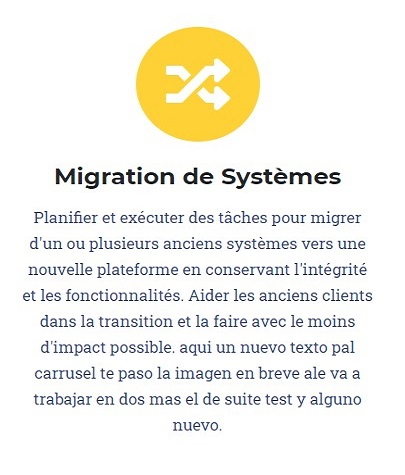
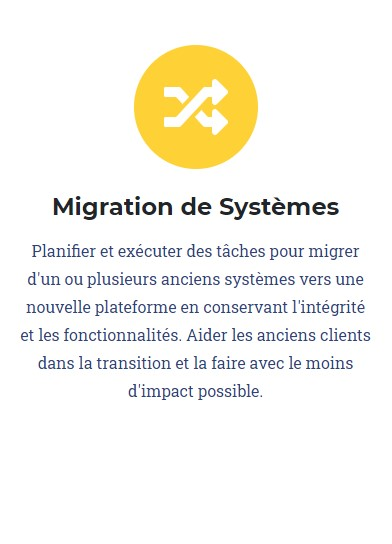
Actualiztion Trabajo con services

diff --git a/index.html b/index.html
@@ -86,8 +86,8 @@
         </section>
         
        
- <!-- 
-       <br>
+  
+             <!-- <br>
         <section class="page-section " id="services">
             <div class="container">
                 <div class="text-center">
@@ -153,18 +153,14 @@
                         </span>
                         <h4 class="my-3"> Migration de Systèmes
                         </h4>
-                        <p class="text-muted">Planifier et exécuter des tâches pour migrer d'un ou plusieurs anciens systèmes vers une nouvelle plateforme en conservant l'intégrité et les fonctionnalités. Aider les anciens clients dans la transition et la faire avec le moins d'impact possible.
-                            aqui un nuevo texto pal carrusel
-                            te paso la imagen en breve
-                            ale va a trabajar en dos mas
-                            el de suite test y alguno nuevo.</p>
+                        <p class="text-muted">Planifier et exécuter des tâches pour migrer d'un ou plusieurs anciens systèmes vers une nouvelle plateforme en conservant l'intégrité et les fonctionnalités. Aider les anciens clients dans la transition et la faire avec le moins d'impact possible.</p>
                     </div>
                    
                 </div>
             </div>
-        </section>
+        </section>-->
 
-        -->
+        
         <!-- Portfolio Grid-->
         <section class="page-section bg-light" id="portfolio">
             <div class="container">
@@ -434,7 +430,7 @@
         <footer class="footer py-4">
             <div class="container">
                 <div class="row align-items-center">
-                    <div class="col-lg-4 text-lg-left">Copyright © 2020 FaaS Dynamic Solutions</div>
+                    <div class="col-lg-4 text-lg-left">Copyright © 2020 FaaS solutions dynamiques Inc</div>
                     <div class="col-lg-4 my-3 my-lg-0">
                         <!-- <a class="btn btn-dark btn-social mx-2" href="#!"><i class="fab fa-twitter"></i></a>
                         <a class="btn btn-dark btn-social mx-2" href="#!"><i class="fab fa-facebook-f"></i></a>-->

diff --git a/css/styles.css b/css/styles.css
@@ -10000,7 +10000,7 @@ p {
 }
 
 .page-section {
-  padding: 10rem 0;
+  padding: 8rem 0;
 }
 .page-section h2.section-heading {
   font-size: 2.5rem;
@@ -10527,7 +10527,7 @@ section#contact form#sentMessage :-ms-input-placeholder {
 
 .slider {
   position: relative;
-  left: 100px;
+  left: -30px;
   margin-right: 50%;
 }
 .ulCarrusel {
@@ -10539,7 +10539,7 @@ section#contact form#sentMessage :-ms-input-placeholder {
 }
 .liCarrusel {
   display: inline-block;
-  margin: 45px;
+  margin: 20px;
   cursor: pointer;
   height: 400px;
 }
